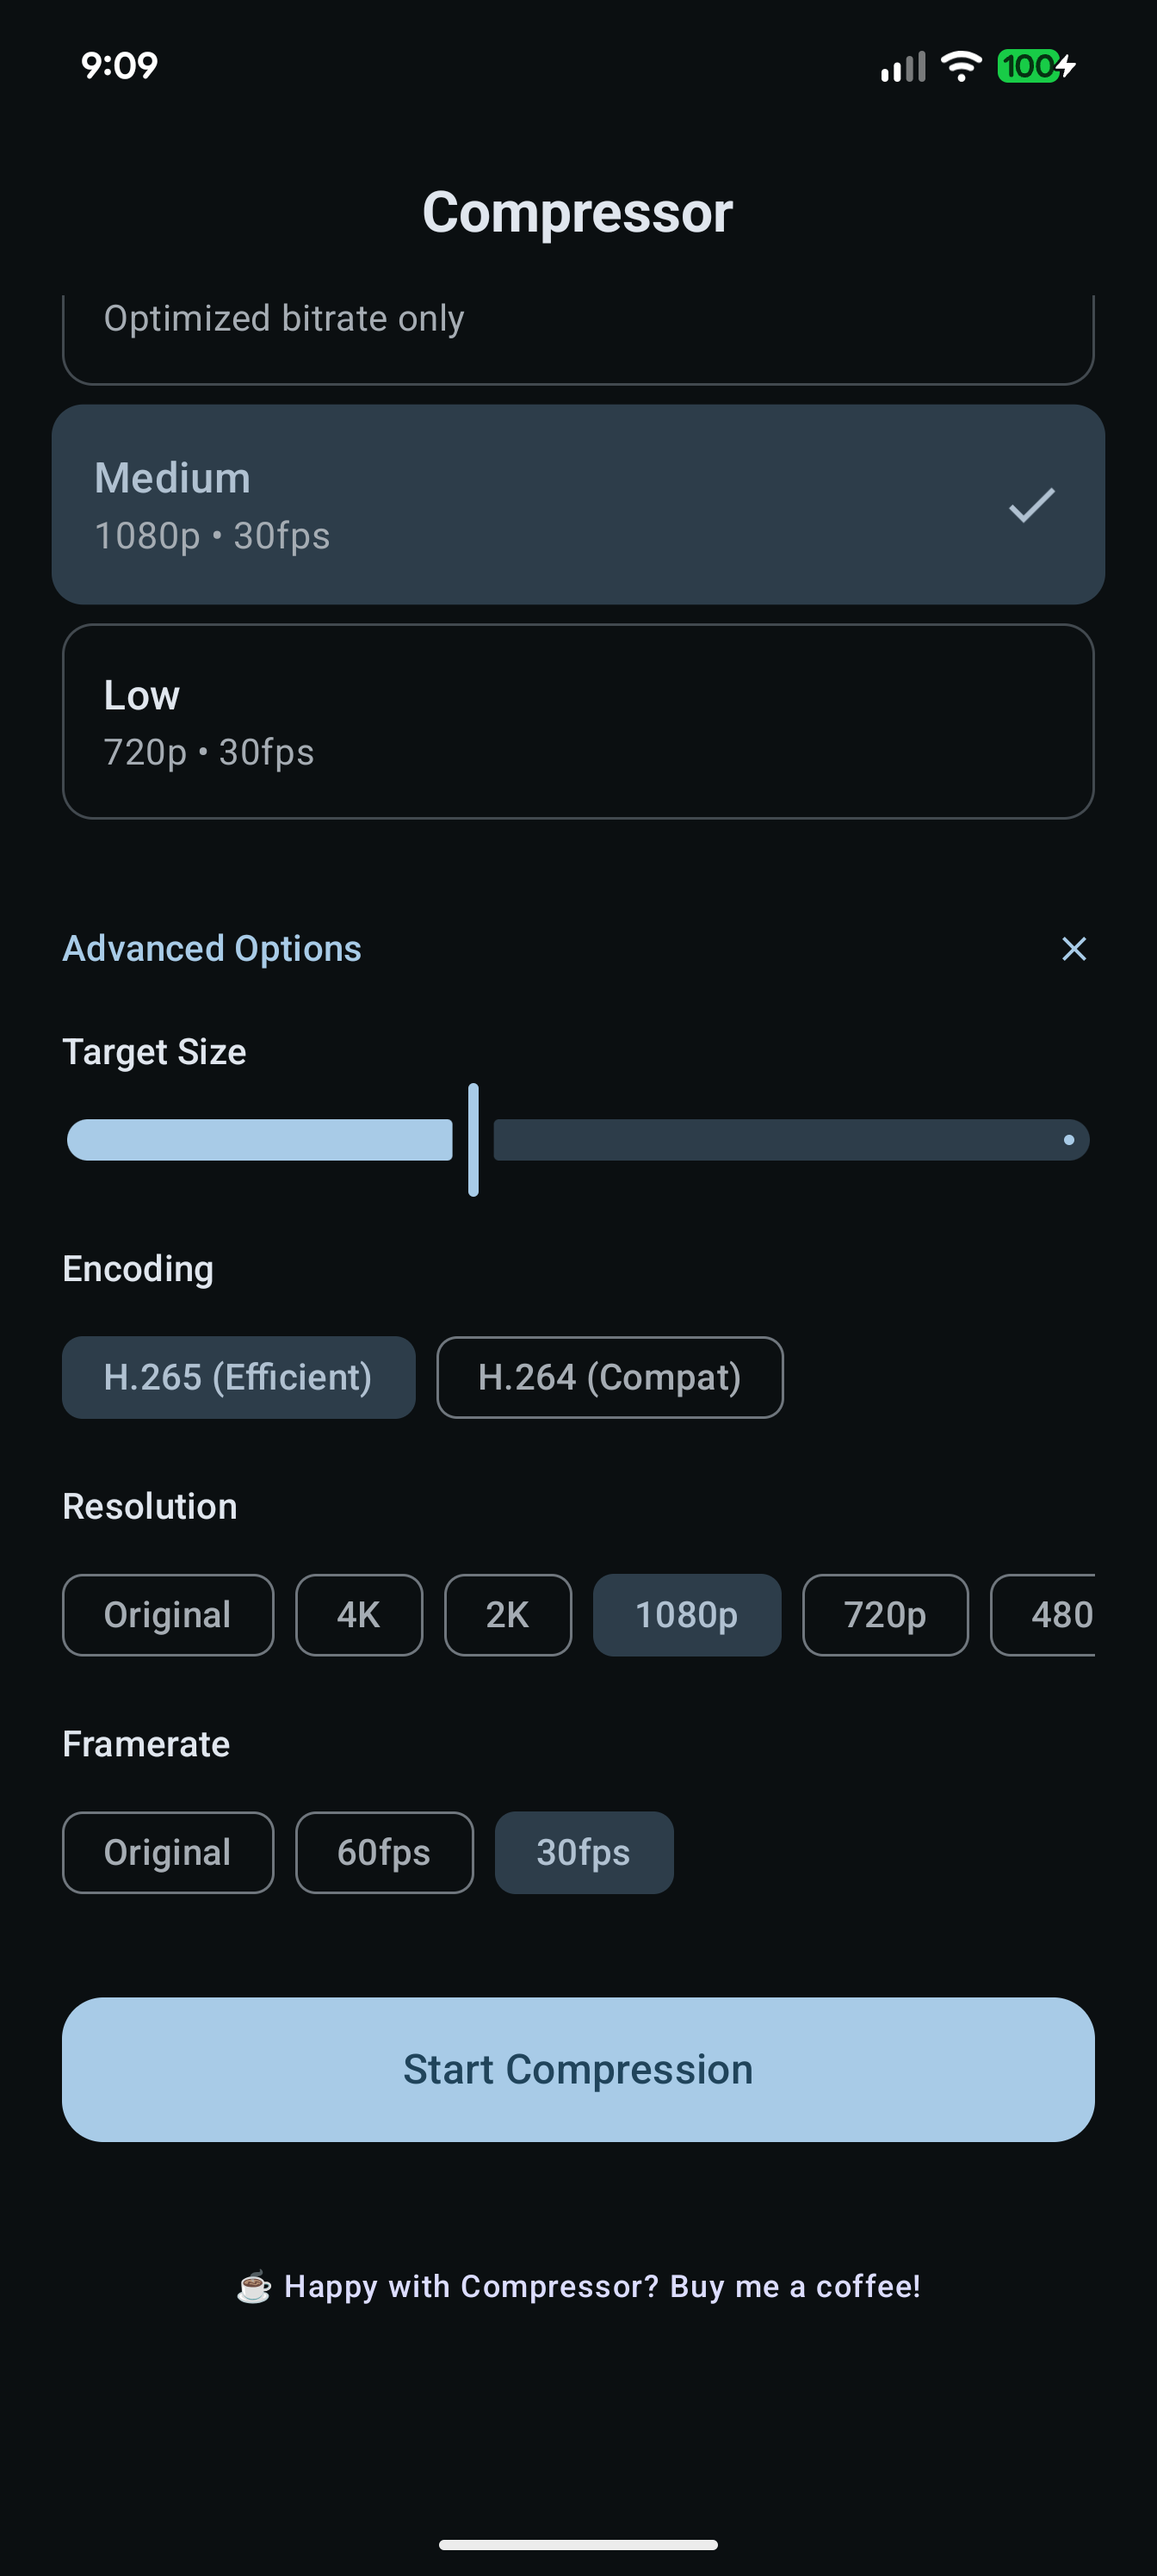
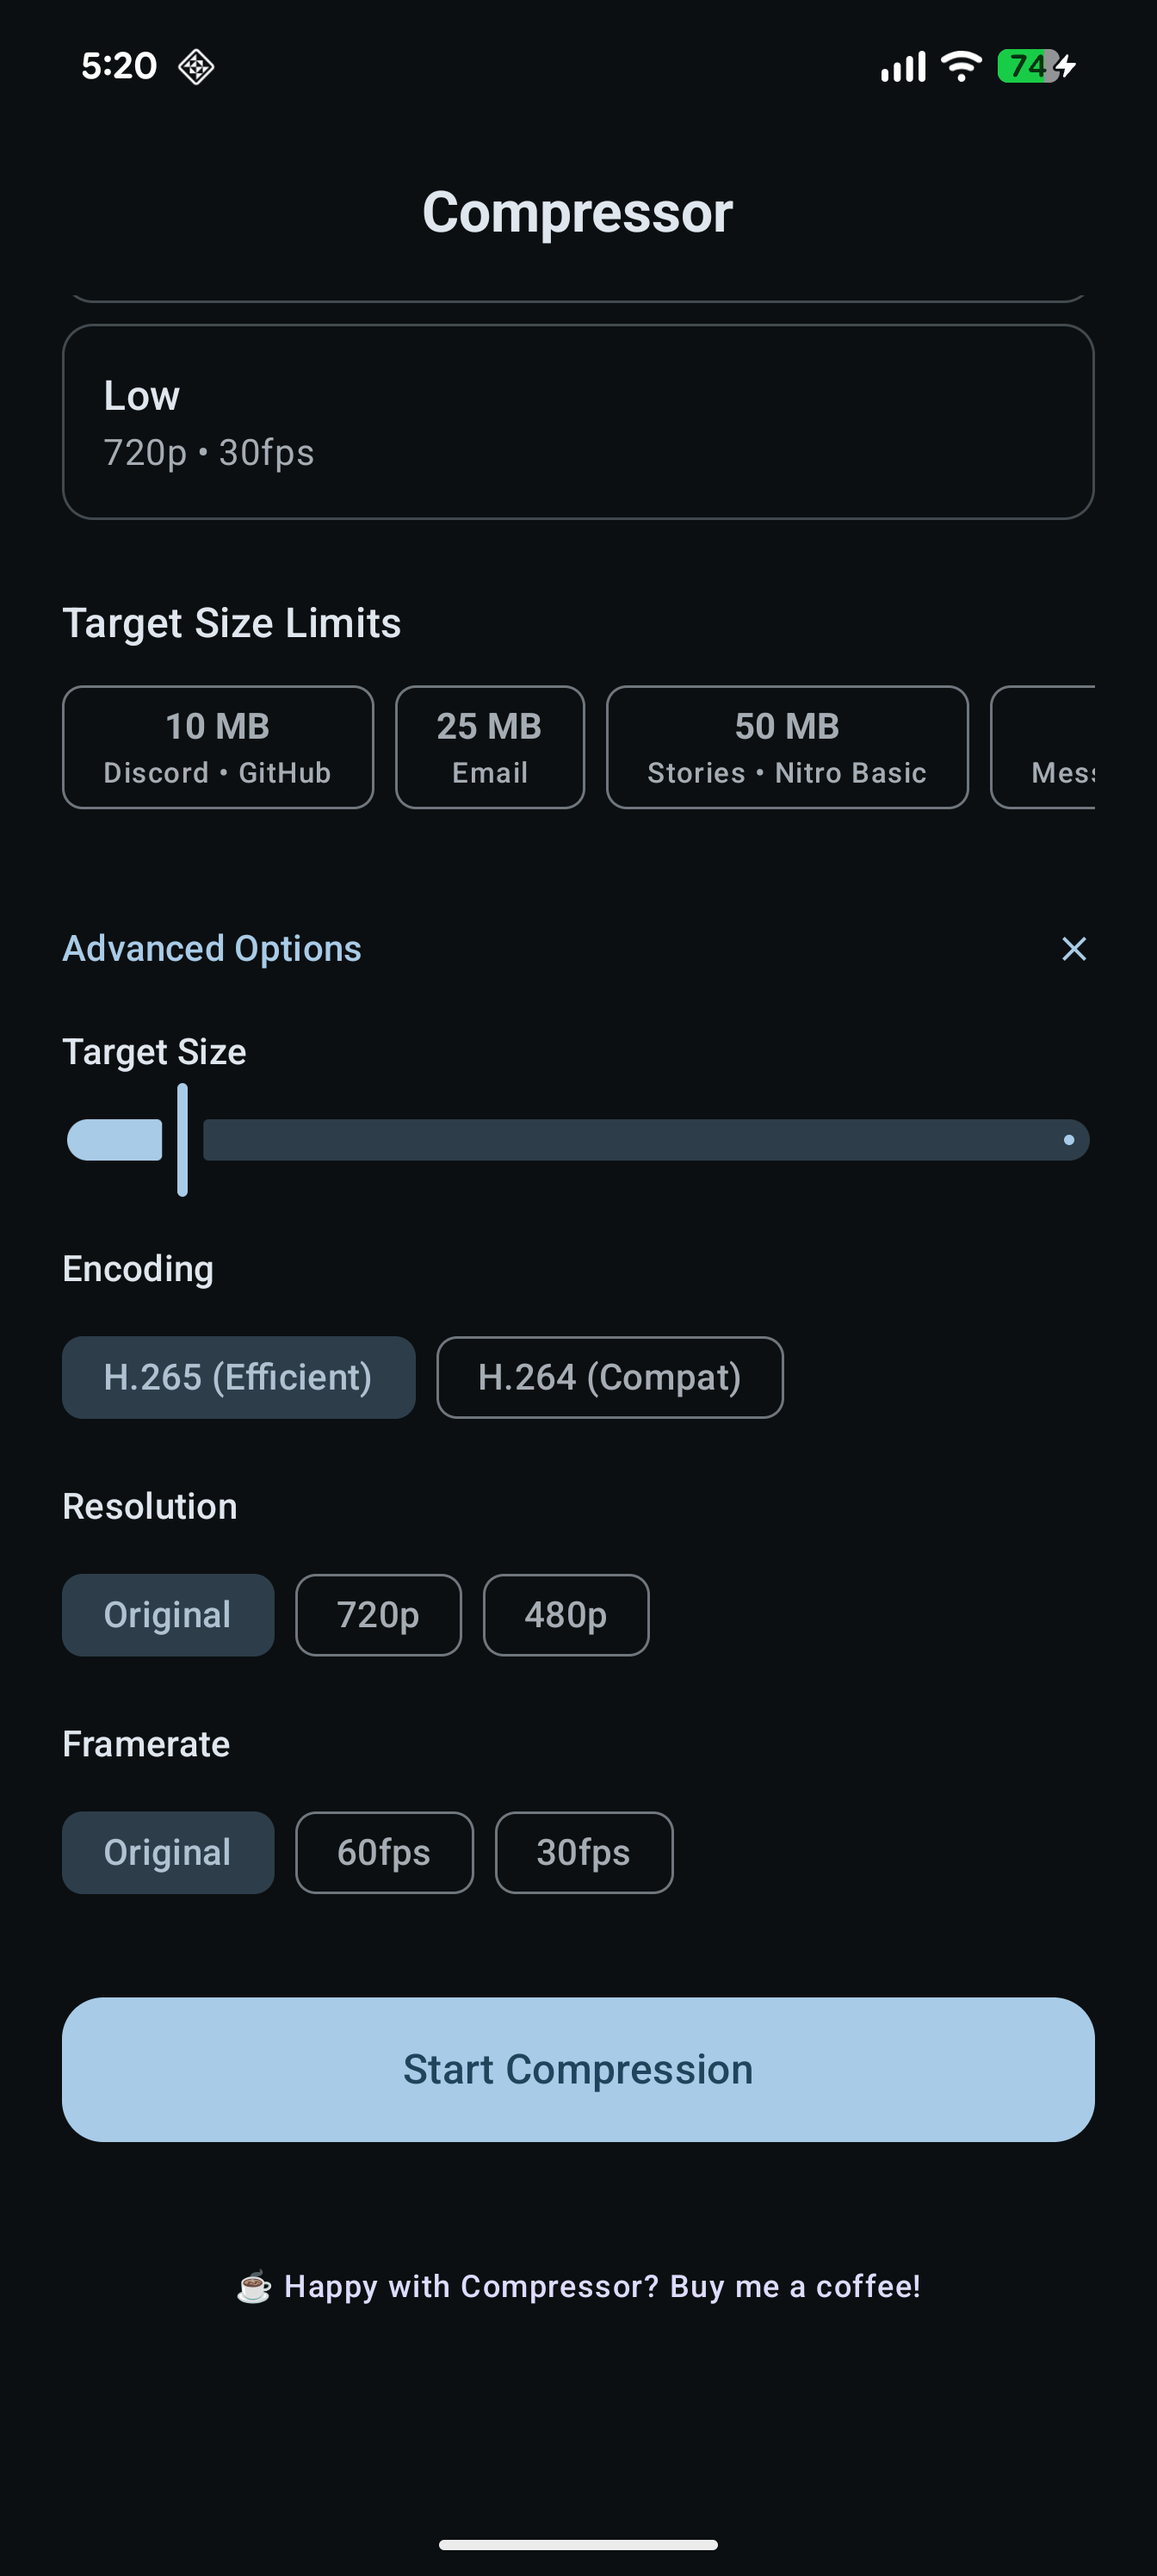
v1.1.0

diff --git a/app/src/main/java/compress/joshattic/us/MainActivity.kt b/app/src/main/java/compress/joshattic/us/MainActivity.kt
@@ -78,6 +78,21 @@ class MainActivity : ComponentActivity() {
     override fun onCreate(savedInstanceState: Bundle?) {
         super.onCreate(savedInstanceState)
         enableEdgeToEdge()
+
+        // Handle incoming share intent
+        if (intent?.action == Intent.ACTION_SEND && intent.type?.startsWith("video/") == true) {
+            val uri = if (android.os.Build.VERSION.SDK_INT >= android.os.Build.VERSION_CODES.TIRAMISU) {
+                intent.getParcelableExtra(Intent.EXTRA_STREAM, Uri::class.java)
+            } else {
+                @Suppress("DEPRECATION")
+                intent.getParcelableExtra(Intent.EXTRA_STREAM)
+            }
+            
+            if (uri != null) {
+                viewModel.updateSelectedUri(this, uri)
+            }
+        }
+
         setContent {
             CompressorTheme {
                 // Using Surface to ensure correct M3 background handling
@@ -119,6 +134,12 @@ fun CompressorApp(viewModel: CompressorViewModel) {
     val pickMedia = rememberLauncherForActivityResult(ActivityResultContracts.PickVisualMedia()) { uri ->
         if (uri != null) {
             viewModel.updateSelectedUri(context, uri)
+        }
+    }
+
+    val createDocumentLauncher = rememberLauncherForActivityResult(ActivityResultContracts.CreateDocument("video/mp4")) { uri ->
+        if (uri != null) {
+            viewModel.saveToUri(context, uri)
         }
     }
     
@@ -185,12 +206,19 @@ fun CompressorApp(viewModel: CompressorViewModel) {
                     ) { index ->
                         when(index) {
                             0 -> EmptyScreen(
+                                totalSaved = state.formattedTotalSaved,
                                 onPick = { pickMedia.launch(PickVisualMediaRequest(ActivityResultContracts.PickVisualMedia.VideoOnly)) }
                             )
                             2 -> ResultScreen(
                                 state = state,
                                 onShare = { shareVideo(state.compressedUri) },
-                                onSave = { viewModel.saveToGallery(context) },
+                                onSave = { 
+                                    if (android.os.Build.VERSION.SDK_INT >= android.os.Build.VERSION_CODES.Q) {
+                                        viewModel.saveToGallery(context)
+                                    } else {
+                                        createDocumentLauncher.launch("CompressedVideo.mp4")
+                                    }
+                                },
                                 onCompressAnother = { viewModel.reset() },
                                 onBack = { viewModel.reset() }
                             )
@@ -204,7 +232,7 @@ fun CompressorApp(viewModel: CompressorViewModel) {
 }
 
 @Composable
-fun EmptyScreen(onPick: () -> Unit) {
+fun EmptyScreen(totalSaved: String, onPick: () -> Unit) {
     Box(
         modifier = Modifier.fillMaxSize(),
         contentAlignment = Alignment.Center
@@ -221,6 +249,17 @@ fun EmptyScreen(onPick: () -> Unit) {
                 "Select a video to compress",
                 style = MaterialTheme.typography.bodyLarge,
                 color = MaterialTheme.colorScheme.onSurfaceVariant
+            )
+        }
+
+        if (totalSaved != "0.0 MB" && totalSaved != "0 MB") {
+             Text(
+                text = "You've saved $totalSaved of storage with Compressor",
+                style = MaterialTheme.typography.labelMedium,
+                color = MaterialTheme.colorScheme.onSurface.copy(alpha = 0.4f),
+                modifier = Modifier
+                    .align(Alignment.BottomCenter)
+                    .padding(bottom = 32.dp)
             )
         }
     }
@@ -416,6 +455,48 @@ fun ConfigScreen(
         }
         
         Spacer(modifier = Modifier.height(24.dp))
+
+        Text("Target Size Limits", style = MaterialTheme.typography.titleMedium, modifier = Modifier.padding(bottom = 12.dp))
+        
+        val sizePresets = listOf(
+            10f to "Discord • GitHub",
+            25f to "Email",
+            50f to "Stories • Nitro Basic",
+            100f to "Messenger • BlueSky",
+            500f to "Nitro • Reels",
+            512f to "Twitter/X",
+            2048f to "WhatsApp • Telegram",
+            4096f to "TG Premium • Feed",
+            8192f to "X Premium"
+        )
+
+        Row(
+            modifier = Modifier
+                .fillMaxWidth()
+                .horizontalScroll(rememberScrollState())
+                .padding(bottom = 8.dp),
+            horizontalArrangement = Arrangement.spacedBy(8.dp)
+        ) {
+            sizePresets.forEach { (size, label) ->
+                FilterChip(
+                    selected = state.targetSizeMb == size,
+                    onClick = { viewModel.setTargetSize(size) },
+                    label = { 
+                        Column(horizontalAlignment = Alignment.CenterHorizontally) {
+                            Text(
+                                if (size >= 1024) "${(size/1024).toInt()} GB" else "${size.toInt()} MB", 
+                                style = MaterialTheme.typography.labelLarge,
+                                fontWeight = FontWeight.Bold
+                            )
+                            Text(label, style = MaterialTheme.typography.labelSmall)
+                        }
+                    },
+                    modifier = Modifier.heightIn(min = 48.dp)
+                )
+            }
+        }
+        
+        Spacer(modifier = Modifier.height(24.dp))
         
         var advancedExpanded by remember { mutableStateOf(false) }
         Row(
@@ -446,7 +527,7 @@ fun ConfigScreen(
                  Slider(
                     value = state.targetSizeMb,
                     onValueChange = { viewModel.setTargetSize(it) },
-                    valueRange = 1f..maxOf(10f, (state.originalSize / (1024f*1024f))),
+                    valueRange = 1f..maxOf(10f, state.targetSizeMb, (state.originalSize / (1024f*1024f))),
                     steps = 0
                 )
                 

diff --git a/app/src/main/java/compress/joshattic/us/CompressorViewModel.kt b/app/src/main/java/compress/joshattic/us/CompressorViewModel.kt
@@ -1,13 +1,15 @@
 package compress.joshattic.us
 
+import android.app.Application
 import android.content.ContentValues
 import android.content.Context
+import android.content.SharedPreferences
 import android.net.Uri
 import android.os.Build
 import android.os.Environment
 import android.provider.MediaStore
 import androidx.annotation.OptIn
-import androidx.lifecycle.ViewModel
+import androidx.lifecycle.AndroidViewModel
 import androidx.lifecycle.viewModelScope
 import androidx.media3.common.MediaItem
 import androidx.media3.common.MimeTypes
@@ -30,6 +32,7 @@ import kotlinx.coroutines.flow.MutableStateFlow
 import kotlinx.coroutines.flow.asStateFlow
 import kotlinx.coroutines.flow.update
 import kotlinx.coroutines.launch
+import kotlinx.coroutines.Dispatchers
 import java.io.File
 import java.util.UUID
 
@@ -58,11 +61,16 @@ data class CompressorUiState(
     val targetSizeMb: Float = 10f,
     val useH265: Boolean = true,
     val targetResolutionHeight: Int = 0, // 0 means original
-    val targetFps: Int = 0 // 0 means original
+    val targetFps: Int = 0, // 0 means original
+    
+    val totalSavedBytes: Long = 0L
 ) {
     val estimatedSize: String
         get() = String.format("%.1f MB", targetSizeMb)
     
+    val formattedTotalSaved: String
+        get() = formatFileSize(totalSavedBytes)
+
     val formattedOriginalSize: String
         get() = formatFileSize(originalSize)
         
@@ -83,9 +91,18 @@ fun formatFileSize(size: Long): String {
 }
 
 @OptIn(UnstableApi::class)
-class CompressorViewModel : ViewModel() {
+class CompressorViewModel(application: Application) : AndroidViewModel(application) {
     private val _uiState = MutableStateFlow(CompressorUiState())
     val uiState = _uiState.asStateFlow()
+    
+    private val prefs: SharedPreferences by lazy {
+        getApplication<Application>().getSharedPreferences("compressor_prefs", Context.MODE_PRIVATE)
+    }
+
+    init {
+        val saved = prefs.getLong("total_saved_bytes", 0L)
+        _uiState.update { it.copy(totalSavedBytes = saved) }
+    }
     
     private var compressionJob: Job? = null
     private var activeTransformer: Transformer? = null
@@ -235,7 +252,10 @@ class CompressorViewModel : ViewModel() {
         } catch(e: Exception) {}
 
         val targetBitrate = if (durationSec > 0) {
-            val targetBits = currentState.targetSizeMb * 8 * 1024 * 1024
+            // Apply safety margin to prevent overshoot
+            // "Target 2-3MB smaller" -> Subtract 2.5MB, but ensure we don't go below 80% for small files
+            val safetyMarginMb = (currentState.targetSizeMb - 2.5f).coerceAtLeast(currentState.targetSizeMb * 0.8f)
+            val targetBits = safetyMarginMb * 8 * 1024 * 1024
             (targetBits / durationSec).toLong()
         } else {
             2_000_000 // Fallback
@@ -261,12 +281,21 @@ class CompressorViewModel : ViewModel() {
             .addListener(object : Transformer.Listener {
                 override fun onCompleted(composition: Composition, exportResult: ExportResult) {
                      val finalSize = outputFile.length()
+                     val savedBytes = currentState.originalSize - finalSize
+                     var newTotal = _uiState.value.totalSavedBytes
+                     
+                     if (savedBytes > 0) {
+                         newTotal += savedBytes
+                         prefs.edit().putLong("total_saved_bytes", newTotal).apply()
+                     }
+
                      _uiState.update { 
                          it.copy(
                              isCompressing = false, 
                              progress = 1f, 
                              compressedUri = Uri.fromFile(outputFile),
-                             compressedSize = finalSize
+                             compressedSize = finalSize,
+                             totalSavedBytes = newTotal
                          ) 
                      }
                 }
@@ -321,7 +350,32 @@ class CompressorViewModel : ViewModel() {
             }
         }
     }
-    
+
+    fun saveToUri(context: Context, targetUri: Uri) {
+        val currentState = _uiState.value
+        val compressedUri = currentState.compressedUri ?: return
+
+        viewModelScope.launch(Dispatchers.IO) {
+            try {
+                val file = File(compressedUri.path!!)
+                if (!file.exists()) {
+                    _uiState.update { it.copy(error = "File lost") }
+                    return@launch
+                }
+                
+                context.contentResolver.openOutputStream(targetUri)?.use { out ->
+                    file.inputStream().use { input ->
+                        input.copyTo(out)
+                    }
+                }
+                 _uiState.update { it.copy(saveSuccess = true) }
+            } catch (e: Exception) {
+                e.printStackTrace()
+                _uiState.update { it.copy(error = "Save failed: ${e.message}") }
+            }
+        }
+    }
+
     fun saveToGallery(context: Context) {
         val currentState = _uiState.value
         val compressedUri = currentState.compressedUri ?: return

diff --git a/README.md b/README.md
@@ -1,13 +1,14 @@
 # Compressor
 Lightning fast, ad free, super lightweight native video compressor for Android (inspired by the AMAZING Kompresso app for iOS).
 
-<img src="assets/Screenshot_20260120-155624.png" alt="Screenshot 3" width="200"/><img src="assets/Screenshot_20260120-155611.png" alt="Screenshot 2" width="200"/><img src="assets/Screenshot_20260120-155601.png" alt="Screenshot 1" width="200"/>
+<img src="assets/select.png" alt="Screenshot 3" width="24%"/><img src="assets/settings.png" alt="Screenshot 1" width="24%"/><img src="assets/compressing.png" alt="Screenshot 2" width="24%"><img src="assets/done.png" alt="Screenshot 4" width="24%"/>
 
 Do you like Compressor? Consider supporting development by [buying me a coffee](https://www.buymeacoffee.com/joshatticus) ☕
 
 ## Features
 - Faster than every single compression app on the Play Store. Period.
 - Uses native Media3 library, not another slow, bulky FFMpeg wrapper
+- Share Sheet Support
 - No third party libraries
 - No invasive permissions (no storage, no internet etc)
 - Ad free
